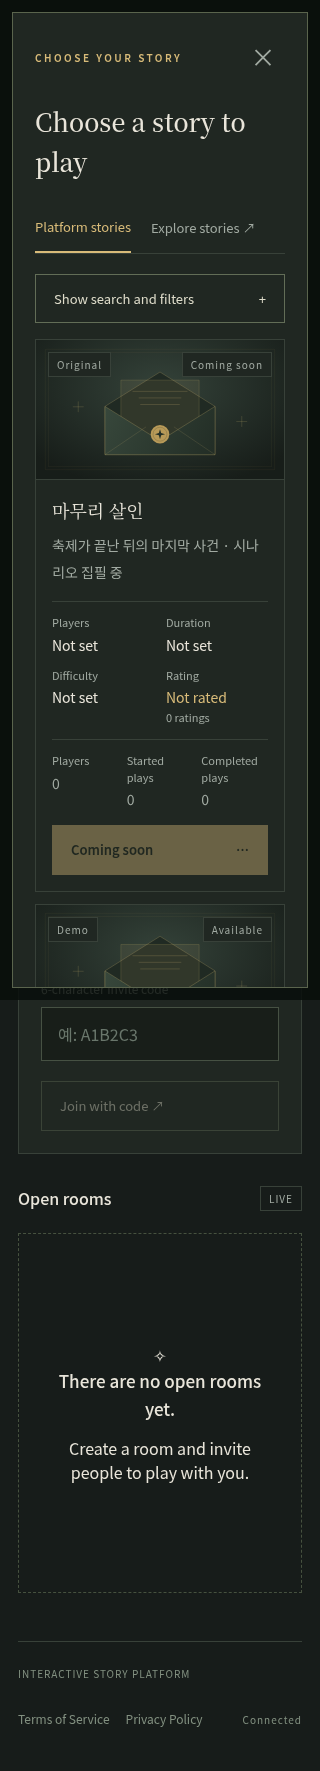
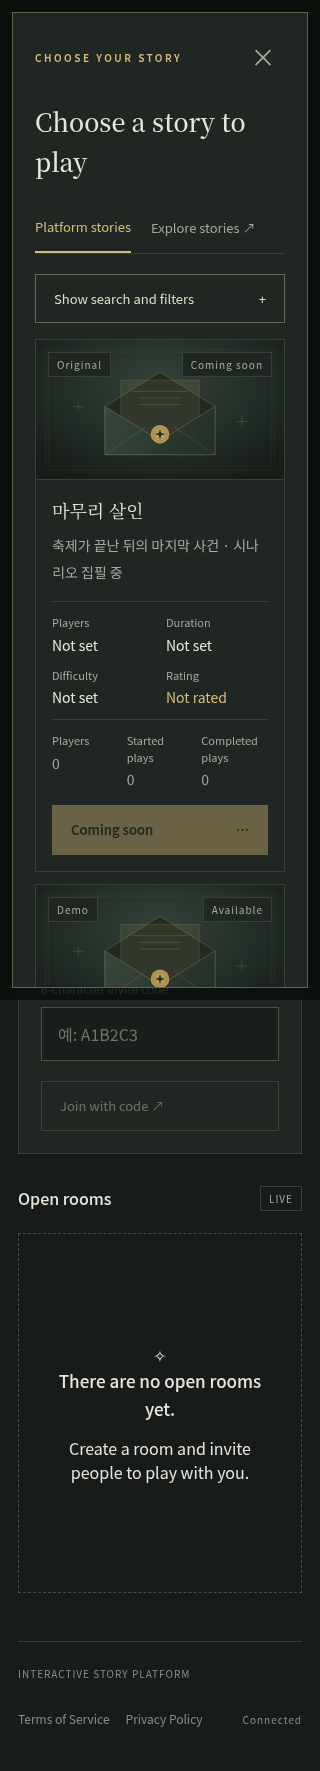
fix(story-picker): simplify unrated metadata and portable browser checks

Changed region(s): [[0.1562, 0.4037, 0.8438, 0.528], [0.4688, 0.528, 0.5312, 0.559], [0.3438, 0.528, 0.375, 0.559]]

diff --git a/apps/web/src/widgets/story-picker/ui/StoryPickerDialog.svelte b/apps/web/src/widgets/story-picker/ui/StoryPickerDialog.svelte
@@ -216,7 +216,7 @@
                   <div><dt class="text-caption text-festival-muted">{t("workshopPlayers")}</dt><dd class="mt-1 text-sm text-festival-text">{story.available ? `${story.players}${t("playerUnit")}` : t("difficultyUndetermined")}</dd></div>
                   <div><dt class="text-caption text-festival-muted">{t("storyDuration")}</dt><dd class="mt-1 text-sm text-festival-text">{story.available ? `${story.minutes}${t("storyMinuteUnit")}` : t("difficultyUndetermined")}</dd></div>
                   <div><dt class="text-caption text-festival-muted">{t("storyDifficulty")}</dt><dd class="mt-1 text-sm text-festival-text">{story.difficulty ? t(`difficulty${story.difficulty[0].toUpperCase()}${story.difficulty.slice(1)}`) : t("difficultyUndetermined")}</dd></div>
-                  <div><dt class="text-caption text-festival-muted">{t("storyRating")}</dt><dd class="mt-1 text-sm text-festival-gold">{story.averageRating === null ? t("noRatingYet") : `★ ${story.averageRating.toFixed(1)} / 5`}<span class="block text-caption text-festival-muted">{story.ratingCount} {t("storyRatingCount")}</span></dd></div>
+                  <div><dt class="text-caption text-festival-muted">{t("storyRating")}</dt><dd class="mt-1 text-sm text-festival-gold">{story.averageRating === null ? t("noRatingYet") : `★ ${story.averageRating.toFixed(1)} / 5`}{#if story.averageRating !== null}<span class="block text-caption text-festival-muted">{story.ratingCount} {t("storyRatingCount")}</span>{/if}</dd></div>
                 </dl>
                 <dl class="mt-3 grid grid-cols-3 gap-2 text-caption text-festival-muted" aria-label={t("storyActivity")}>
                   <div><dt>{t("storyUniquePlayers")}</dt><dd class="mt-1 text-sm">{story.uniquePlayers}</dd></div>

diff --git a/docs/verification/issue102/README.md b/docs/verification/issue102/README.md
@@ -11,11 +11,24 @@
 ## 결과
 
 - 카드 상단의 일정 비율 썸네일과 출처·상태 배지, 제목·소개, 플레이 인원·예상 시간·난이도·평점, 작은 이용 통계, 선택 버튼 순으로 정리했습니다. 기존 디자인 토큰 유틸리티만 사용했습니다.
-- 데이터는 기존 API에서 그대로 가져옵니다. 평점 없음과 통계 0을 그대로 표시합니다. 미출시 3부작의 4인·60분은 기존 카탈로그의 임시 기획 값이므로 확정값처럼 보여 주지 않고 카드에 인원·시간 `미정`으로 안내합니다.
+- 데이터는 기존 API에서 그대로 가져옵니다. 평가가 없으면 `평가 없음`만 표시하고, 평점이 있으면 실제 평점과 평가 수를 표시합니다. 이용 통계 0은 그대로 표시합니다. 미출시 3부작의 4인·60분은 기존 카탈로그의 임시 기획 값이므로 확정값처럼 보여 주지 않고 카드에 인원·시간 `미정`으로 안내합니다.
 - 실제 Chromium/Playwright: 한·영 각각 1440/768/375/320px에서 실제 네 작품, 썸네일 네 개 로딩, 준비 중 세 작품 비활성화와 체험판 한 작품 선택 가능, 문서·패널 가로 넘침 없음 확인. 실제 320px 작품 선택 → 방 생성 → 방 나가기 통과. 런타임 오류 0건.
 - 긴 제목·소개는 브라우저 API 응답만 변경해 320px에서 검증했으며 운영 카탈로그에 가짜 데이터를 넣지 않았습니다.
 - 수정 전후 실제 화면: `before-1440.png`, `before-320.png`, `after-ko-1440.png`, `after-ko-320.png`, `after-en-320.png`. 전체 결과는 `browser-results.json`.
+- `bash scripts/codex/verify.sh`: exit 0, check/build 및 61 tests / 4,800 assertions 통과.
 - `bash scripts/codex/verify.sh --browser`: check/build 및 61 tests / 4,800 assertions 통과 후 기존 `test:e2e` 부재로 최종 exit 1. 자동 브라우저 단계 통과로 처리하지 않았고 위 실제 검증으로 보완했습니다. 기존 Astro 페이지 경고와 Svelte unused CSS 경고는 남아 있습니다.
 - `git diff --check` 통과.
 
 `browser.cjs`는 테스트 서버 `http://127.0.0.1:3212`와 전용 `/tmp/ready-102.sqlite` DB, 사전 설치된 Playwright/Chromium을 사용했습니다. QA/main 승격·배포·운영 데이터 접근은 없습니다.
+
+## 다른 환경에서 재현
+
+Playwright를 설치하고 Chromium을 준비한 뒤 아래처럼 실행합니다. Playwright 기본 브라우저를 사용하면 `CHROMIUM_PATH`를 생략할 수 있습니다. 시스템의 절대 경로는 환경 변수로만 전달하며 스크립트에 고정하지 않습니다. `RESULTS_DIR` 기본값은 스크립트 디렉터리입니다.
+
+```sh
+PORT=3212 DATABASE_PATH=/tmp/issue102-test.sqlite bun apps/server/src/index.ts
+# 다른 터미널; 먼저 bun run build 실행 필요
+BASE_URL=http://127.0.0.1:3212 PLAYWRIGHT_MODULE=playwright CHROMIUM_PATH=/path/to/chromium RESULTS_DIR=/tmp/issue102-results node docs/verification/issue102/browser.cjs
+```
+
+브라우저 스크립트는 빈 테스트 DB에서 게스트를 만들고 종료 전 방에서 퇴장합니다. 기존 네 작품의 카탈로그를 사용하므로 별도 데이터 시드는 필요 없습니다. 평가 표시 분기와 긴 텍스트 검증은 브라우저 응답만 대체합니다.
